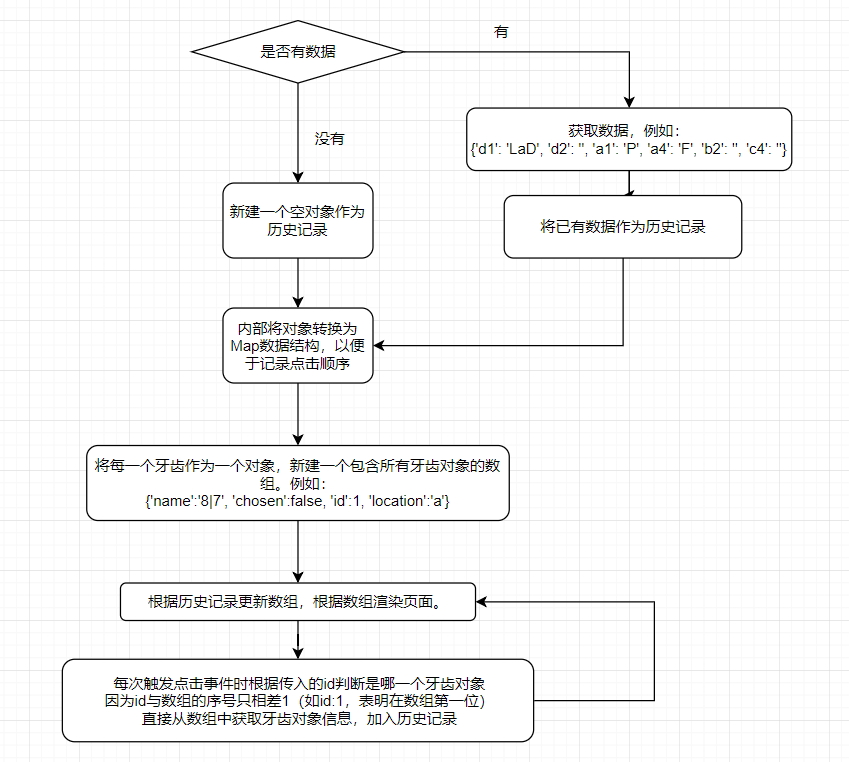
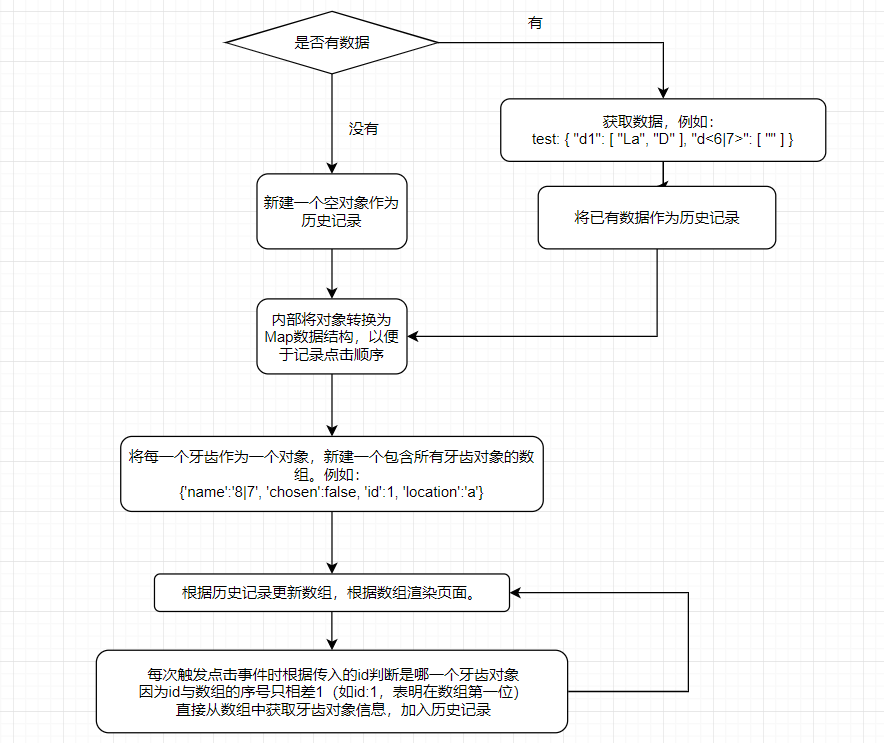
4/30

diff --git a/src/lib/toothSelector.vue b/src/lib/toothSelector.vue
@@ -349,7 +349,13 @@ export default {
         loc = oldLocation + newLocation
         this.history.set(lastKey, loc)
       } else {
-        loc = oldLocation.replace(newLocation, '')
+        if (newLocation === 'L') {
+          let temp = oldLocation.replace('La', '!')
+          console.log(temp)
+          loc = temp.replace(newLocation, '').replace('!', 'La')
+        } else {
+          loc = oldLocation.replace(newLocation, '')
+        }
         this.history.set(lastKey, loc)
       }
     },
@@ -410,17 +416,43 @@ export default {
       }
       return strMap;
     },
-    strMapToObj (strMap) {
+    strMapToOutput (strMap) {
       let obj = {};
       for (let [k,v] of strMap) {
-        obj[k] = v;
+        obj[k] = this.outputStringtoArray(v);
       }
       return obj;
+    },
+    inputArraytoString (obj) {
+      const newObj = {}
+      for (let i in obj) {
+        newObj[i] = obj[i].join('')
+      }
+      return newObj
+    },
+    outputStringtoArray (val) {
+      let str = ''
+      let arr = []
+      if (val) {
+        for(let i=0; i<val.length; i++) {
+          if(val[i] === 'L' && val[i+1] === 'a' ) {
+            str += val[i]
+            continue
+          }
+          str += val[i] + ','
+        }
+      }
+      arr = str.split(',')
+      if(arr[arr.length - 1] === '') {
+        arr.pop()
+      }
+      return arr
     },
     toFather (history) {
       // 触发v-model
       if (typeof history === 'object') {
-        this.$emit('input', this.strMapToObj(history))
+        const output = this.strMapToOutput(history)
+        this.$emit('input', output)
       }
     }
   },
@@ -431,7 +463,7 @@ export default {
         if (this.once) {
           this.once = false
           if (this.historyProp === undefined) return
-          if (!this.historyProp.get && typeof this.historyProp === 'object') {
+          if (!this.historyProp['get'] && typeof this.historyProp === 'object') {
             this.history = this.objToStrMap(this.historyProp)
           } else {
             this.history = this.historyProp
@@ -445,19 +477,19 @@ export default {
         this.history.forEach((val,key) => 
         {
           if (key.includes('a')) {
-            arr1.push(key + '<sup>' + val + '</sup>')
+            arr1.push(`<span>${key}<sup>${val}</sup></span>`)
             this.aString = arr1.join(',').replace(/a/g, '')
           }
           if (key.includes('b')) {
-            arr2.push(key + '<sup>' + val + '</sup>')
+            arr2.push(`<span>${key}<sup>${val}</sup></span>`)
             this.bString = arr2.join(',').replace(/b/g, '')
           }
           if (key.includes('c')) {
-            arr3.push(key + '<sup>' + val + '</sup>')
+            arr3.push(`<span>${key}<sup>${val}</sup></span>`)
             this.cString = arr3.join(',').replace(/c/g, '')
           }
           if (key.includes('d')) {
-            arr4.push(key + '<sup>' + val + '</sup>')
+            arr4.push(`<span>${key}<sup>${val}</sup></span>`)
             this.dString = arr4.join(',').replace(/d/g, '')
           }
           if (key.includes('e')) {
@@ -468,6 +500,7 @@ export default {
           }
         })
         this.toFather(this.history)
+        console.log(this.history)
       },
       immediate: true
     }
@@ -477,13 +510,13 @@ export default {
     // 将对象转化为Map
 
     let historyPropBackup
-    if (this.historyProp && !this.historyProp.get && typeof this.historyProp === 'object') {
-      historyPropBackup = this.objToStrMap(this.historyProp)
-    } else if (this.historyProp) {
-      historyPropBackup = this.historyProp
+    if (this.historyProp && typeof this.historyProp === 'object') {
+      historyPropBackup = this.inputArraytoString(this.historyProp)
+      historyPropBackup = this.objToStrMap(historyPropBackup)
     } else {
       historyPropBackup = new Map()
     }
+    
     this.history = historyPropBackup
     if (historyPropBackup) {
       let compareArr = []
@@ -826,14 +859,14 @@ export default {
     & tr {
       height: 30px;
       min-height: 30px;
-      word-break: break-all;
+      word-break: normal;
       &:first-child {
         border-bottom: 1px solid #5F5F5F;
       }
       & td {
         box-sizing: border-box;
         width: 50%;
-        max-width: 50%;
+        max-width: 105px;
       }
       &:first-child {
         td {

diff --git a/src/App.vue b/src/App.vue
@@ -6,8 +6,8 @@
     <div>其他的文章内容容容</div>
     <div>其他的文章内容容容</div>
     <!-- <input type="button" value="点我" @click="isShow=!isShow"> -->
-    <!-- <toothSelector v-show='isShow' :historyProp=test  v-model='teeth'/> -->
-    <toothSelector v-show='isShow' />
+    <toothSelector v-show='isShow' :historyProp=test  v-model='teeth'/>
+    <!-- <toothSelector v-show='isShow' /> -->
     <div>其{{teeth}}</div>
     <div>其</div>
     <div>其他的文章内容容容</div>
@@ -25,7 +25,7 @@ export default {
   },
   data () {
     return {
-      test: {'d1': 'LaD', 'd2': '', 'a1': 'P', 'a4': 'F', 'b2': '', 'c4': '',"d<6|7>": "" },
+      test: { "d1": [ "La", "D" ], "d2": [], "a1": [ "P" ], "a4": [ "F" ], "b2": [ "" ], "c4": [ "" ], "d<6|7>": [ "" ] },
       isShow: true,
       teeth: {}
     }

diff --git a/README.md b/README.md
@@ -40,7 +40,7 @@ export default {
 
 
 // 属性
-test: {'d1': 'LaD', 'd2': '', 'a1': 'P', 'a4': 'F', 'b2': '', 'c4': '',"d<6|7>": ""}
+test: { "d1": [ "La", "D" ], "d2": [], "a1": [ "P" ], "a4": [ "F" ], "d<6|7>": [ "" ] }
 ```
 
 传入传出值key是由 位置信息 + 牙齿信息 组成， value 表示 附带属性。(牙缝不允许有value)
@@ -64,6 +64,12 @@ npm run dev
 
 # build for production with minification
 npm run build
+
+# test
+npm run test
 ```
 
 For detailed explanation on how things work, consult the [docs for vue-loader](http://vuejs.github.io/vue-loader).
+
+
+
